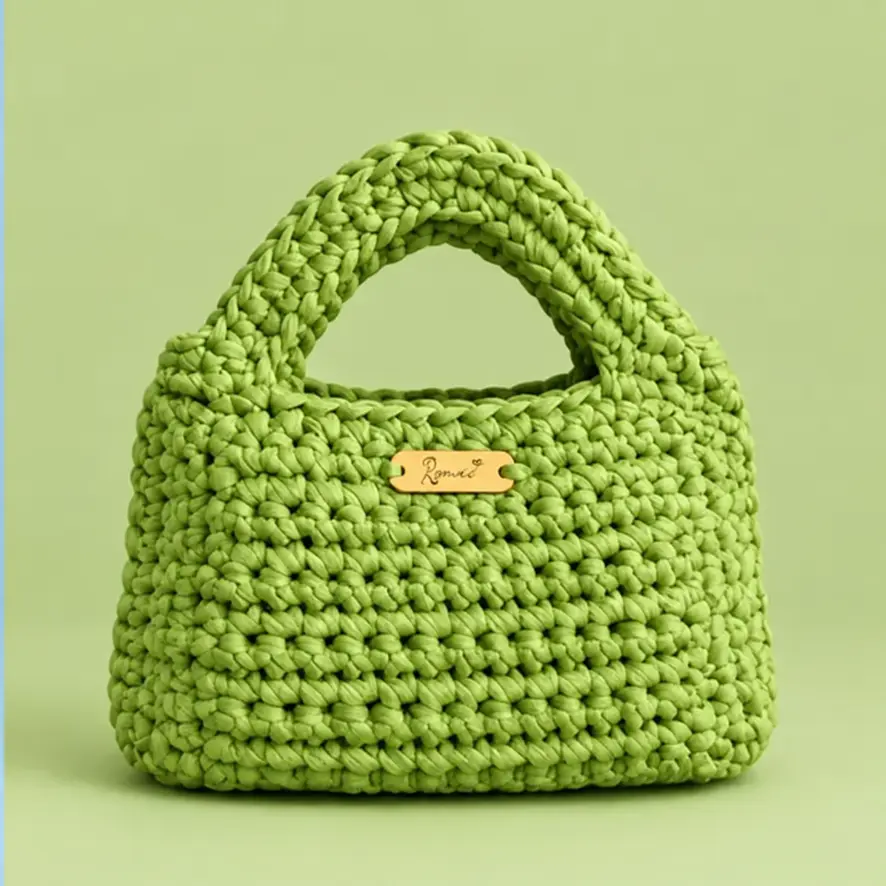
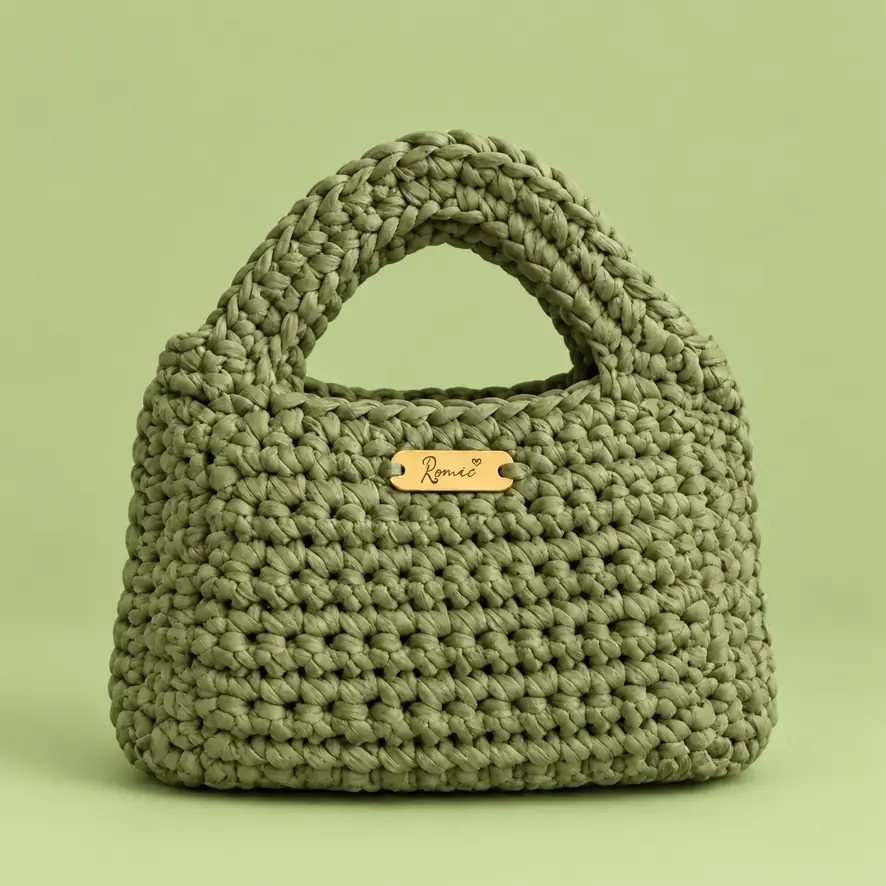
Replace offer strip with launch dialog and refine product visuals

diff --git a/site/app.js b/site/app.js
@@ -25,7 +25,7 @@ const COPY = {
     finderHint:'NEED HELP CHOOSING?', finderOpen:'FIND YOUR BAG', finderClose:'Close bag finder', finderCarry:'HOW DO YOU WANT TO CARRY IT?', finderSize:'WHAT SIZE DO YOU WANT?', finderDetail:'PICK A DETAIL', hand:'In hand', onShoulder:'On shoulder', clutch:'Clutch', small:'Small', medium:'Medium', large:'Large', clean:'Clean', chain:'Chain', pearls:'Pearls', matches:'YOUR MATCHES', yourRomic:'YOUR ROMIC.', noExact:'No exact match in the ready-made collection.', makeYours:'MAKE IT YOURS',
     model:'CHOOSE A MODEL', colour:'CHOOSE A COLOUR', basePrice:'BASE PRICE', bagBody:'BAG BODY', messageRomic:'MESSAGE ROMIC', customLead:'Choose a model. Choose a colour.', customNote:'Base price: one solid colour with the standard handle and hardware. Straps, colour combinations, extra handles and accessories cost extra.', customVisual:'Visualisation for reference. Handmade colour and measurements may vary slightly.',
     copied:'Your message is ready in WhatsApp. Tap Send when you’re ready.', picksCopied:'Your bag is ready in WhatsApp. Tap Send when you’re ready.', picksLabel:'IN YOUR BAG', viewImage:'View', remove:'Remove', openInstagram:'open Romic on Instagram',
-    bag:'My bag', bagTitle:'Your bag', bagEmpty:'Your bag is empty.', keepBrowsing:'KEEP BROWSING', subtotal:'Subtotal', discount:'Launch offer · 20%', total:'Bag total', shipping:'Delivery is ₪35. Added separately.', couponLabel:'Coupon code', couponPlaceholder:'Enter code', applyCoupon:'Apply', couponDone:'Applied', couponApplied:'20% applied to ready-made bags', couponInvalid:'That code doesn’t match. Check it and try again.', couponExpired:'The launch offer has ended.', whatsapp:'CONTINUE TO WHATSAPP', launchOfferTitle:'OFF READY-TO-MADE BAGS', launchOfferDetails:'Enter <bdi>ROMIC2026</bdi> in My bag · Through 16 Oct', launchOfferAction:'SHOP BAGS',
+    bag:'My bag', bagTitle:'Your bag', bagEmpty:'Your bag is empty.', keepBrowsing:'KEEP BROWSING', subtotal:'Subtotal', discount:'Launch offer · 20%', total:'Bag total', shipping:'Delivery is ₪35. Added separately.', couponLabel:'Coupon code', couponPlaceholder:'Enter code', applyCoupon:'Apply', couponDone:'Applied', couponApplied:'20% applied to ready-made bags', couponInvalid:'That code doesn’t match. Check it and try again.', couponExpired:'The launch offer has ended.', whatsapp:'CONTINUE TO WHATSAPP', offerTitle:'A launch offer for your next Romic', offerCodeLabel:'Enter this code in My bag', offerTerms:'20% off ready-made collection bags · Through 16 October 2026. Custom designs and delivery are excluded.', offerAction:'EXPLORE THE COLLECTION', offerClose:'Close offer',
     addConfirmation:'Added to your bag.', removeConfirmation:'Removed from your bag.', openWhatsapp:'Open WhatsApp to message Romic', couponUsed:'Coupon code ROMIC2026 applied.', promoMessage:'Launch offer: 20% off ready-made collection bags with ROMIC2026. Excludes custom designs and delivery. Through 16 October 2026.'
   },
   he: {
@@ -40,7 +40,7 @@ const COPY = {
     finderHint:'לא בטוחה איזה תיק לבחור?', finderOpen:'מצאי את התיק שלך', finderClose:'סגירת שאלון התאמה', finderCarry:'איך תרצי לשאת את התיק?', finderSize:'איזה גודל תרצי?', finderDetail:'איזה גימור את אוהבת?', hand:'ביד', onShoulder:'על הכתף', clutch:'קלאץ׳', small:'קטן', medium:'בינוני', large:'גדול', clean:'נקי', chain:'שרשרת', pearls:'פנינים', matches:'התיקים שמתאימים לך', yourRomic:'YOUR ROMIC.', noExact:'לא מצאנו התאמה מדויקת. אולי תמצאי את התיק שלך בעיצוב האישי.', makeYours:'לעיצוב אישי',
     model:'בחירת דגם', colour:'בחירת צבע', basePrice:'מחיר בסיס', bagBody:'מידות גוף התיק', messageRomic:'שליחת הודעה ל־ROMIC', customLead:'בחרי דגם. בחרי צבע.', customNote:'מחיר הבסיס כולל צבע אחיד, ידית ואבזור סטנדרטיים. רצועות, שילובי צבעים, ידיות נוספות ואביזרים מתומחרים בנפרד.', customVisual:'ההדמיה להמחשה. בעבודת יד ייתכנו הבדלים קטנים בגוון ובמידות.',
     copied:'ההודעה מוכנה בוואטסאפ. כשתרצי, לחצי על שליחה.', picksCopied:'הסל שלך מוכן בוואטסאפ. כשתרצי, לחצי על שליחה.', picksLabel:'בסל שלי', viewImage:'תמונה', remove:'הסרה', openInstagram:'פתיחת Romic באינסטגרם',
-    bag:'הסל שלי', bagTitle:'הבחירות שלך', bagEmpty:'עוד לא הוספת תיק לסל.', keepBrowsing:'חזרה לקולקציה', subtotal:'סכום ביניים', discount:'הטבת השקה · 20%', total:'סך הכול לתיקים', shipping:'משלוח ₪35 מתווסף בנפרד.', couponLabel:'קוד קופון', couponPlaceholder:'הזיני קוד', applyCoupon:'החילי קוד', couponDone:'הקוד הופעל', couponApplied:'20% הנחה על תיקי הקולקציה הקיימים', couponInvalid:'הקוד לא זוהה. בדקי ונסי שוב.', couponExpired:'הטבת ההשקה הסתיימה.', whatsapp:'ממשיכות לוואטסאפ', launchOfferTitle:'הנחה על תיקי הקולקציה', launchOfferDetails:'הזיני <bdi dir="ltr">ROMIC2026</bdi> בסל שלי · עד 16.10', launchOfferAction:'לצפייה בתיקים',
+    bag:'הסל שלי', bagTitle:'הבחירות שלך', bagEmpty:'עוד לא הוספת תיק לסל.', keepBrowsing:'חזרה לקולקציה', subtotal:'סכום ביניים', discount:'הטבת השקה · 20%', total:'סך הכול לתיקים', shipping:'משלוח ₪35 מתווסף בנפרד.', couponLabel:'קוד קופון', couponPlaceholder:'הזיני קוד', applyCoupon:'החילי קוד', couponDone:'הקוד הופעל', couponApplied:'20% הנחה על תיקי הקולקציה הקיימים', couponInvalid:'הקוד לא זוהה. בדקי ונסי שוב.', couponExpired:'הטבת ההשקה הסתיימה.', whatsapp:'ממשיכות לוואטסאפ', offerTitle:'הטבת השקה לתיק הבא שלך', offerCodeLabel:'הזיני את הקוד בסל שלי', offerTerms:'20% הנחה על תיקי הקולקציה המוכנים · בתוקף עד 16.10.2026. לא כולל עיצוב אישי ומשלוח.', offerAction:'לצפייה בקולקציה', offerClose:'סגירת ההטבה',
     addConfirmation:'נוסף לסל שלך.', removeConfirmation:'הוסר מהסל.', openWhatsapp:'פתיחת וואטסאפ ושליחת הודעה ל־Romic', couponUsed:'קוד הקופון ROMIC2026 הופעל.', promoMessage:'הטבת השקה: 20% הנחה על תיקי הקולקציה הקיימים בקוד ROMIC2026. לא כולל עיצוב אישי ומשלוח. בתוקף עד 16.10.2026.'
   }
 };
@@ -99,6 +99,44 @@ const catalogOrder = ['marrakech','rio','ibiza','porto','florence','paris','miam
 
 function formatPrice(price) { return `₪${price}`; }
 function promoIsActive() { const now = Date.now(); return now >= promoStartsAt && now < promoEndsAt; }
+const launchOfferSeenKey = 'romic:launch-offer-seen';
+function showLaunchOfferOnce() {
+  if (!promoIsActive()) return;
+  try { if (localStorage.getItem(launchOfferSeenKey) === '1') return; }
+  catch (_) { try { if (sessionStorage.getItem(launchOfferSeenKey) === '1') return; } catch (_) {} }
+  if (window.__romicLaunchOfferSeen) return;
+  const dialog = document.createElement('dialog');
+  dialog.className = 'launch-dialog';
+  dialog.setAttribute('aria-labelledby', 'launch-offer-title');
+  const featured = ['marrakech','rio','ibiza','porto','florence','paris'];
+  const photos = featured.map(id => {
+    const bag = ROMIC_PRODUCTS.find(item => item.id === id);
+    if (!bag) return '';
+    const alt = isHebrew ? `תיק ${bag.name} מקולקציית Romic` : `${bag.name} bag from the Romic collection`;
+    return `<img src="../assets/cards/600/${id}.webp" alt="${alt}" width="600" height="750" decoding="async">`;
+  }).join('');
+  dialog.innerHTML = `<div class="launch-dialog-layout">
+    <div class="launch-dialog-copy">
+      <button class="launch-dialog-close" type="button" aria-label="${copy.offerClose}" data-offer-close>${icon('close')}</button>
+      <p class="launch-kicker">${isHebrew ? 'הטבת השקה' : 'A LAUNCH OFFER'}</p>
+      <h2 id="launch-offer-title">${copy.offerTitle}</h2>
+      <p class="launch-discount">20%</p>
+      <p class="launch-code-label">${copy.offerCodeLabel}</p>
+      <p class="launch-code"><bdi dir="ltr">ROMIC2026</bdi></p>
+      <p class="launch-terms">${copy.offerTerms}</p>
+      <a class="launch-action" href="./#collection" data-offer-action>${copy.offerAction}</a>
+    </div>
+    <div class="launch-bag-collage" aria-label="${isHebrew ? 'מבחר תיקים מהקולקציה' : 'A selection of Romic bags'}">${photos}</div>
+  </div>`;
+  document.body.append(dialog);
+  try { localStorage.setItem(launchOfferSeenKey, '1'); }
+  catch (_) { try { sessionStorage.setItem(launchOfferSeenKey, '1'); } catch (_) {} }
+  window.__romicLaunchOfferSeen = true;
+  dialog.querySelector('[data-offer-close]').addEventListener('click', () => dialog.close());
+  dialog.querySelector('[data-offer-action]').addEventListener('click', () => dialog.close());
+  dialog.addEventListener('close', () => dialog.remove(), { once:true });
+  dialog.showModal();
+}
 function currentPrice(product) { return product.price; }
 function cartPrice(product, couponApplied) { return couponApplied ? Math.round(product.price * .8) : product.price; }
 function isCouponApplied() { try { return promoIsActive() && sessionStorage.getItem(appliedCouponStorageKey) === promoCode; } catch (_) { return false; } }
@@ -424,9 +462,8 @@ function header() {
   const isDocumentPage = document.body.dataset.page === 'document';
   const otherLanguage = `${isHebrew ? '../en/' : '../he/'}${isProductPage ? `product.html${location.search}` : isDocumentPage ? `${document.body.dataset.doc}.html` : ''}`;
   const navigation = `<a href="${siteRoot}#collection">${copy.collection}</a><a href="${siteRoot}#craft">${copy.craft}</a><a href="${siteRoot}#faq">${copy.faq}</a>`;
-  const promo = ['home','product'].includes(document.body.dataset.page) && promoIsActive() ? `<div class="promo-strip"><a class="promo-message" href="${siteRoot}#collection"><span class="promo-title"><strong>20%</strong> ${copy.launchOfferTitle}</span><span class="promo-details">${copy.launchOfferDetails}</span></a><a class="promo-action" href="${siteRoot}#collection">${copy.launchOfferAction}</a></div>` : '';
   const cartButton = `<button class="bag-link" type="button" data-open-cart aria-label="${copy.bag}">${bagIcon()} <span data-cart-label>${copy.bag}</span><span class="bag-count" data-cart-count>0</span></button>`;
-  return `${promo}<a class="skip-link" href="#main">${copy.skip}</a><header class="site-header">
+  return `<a class="skip-link" href="#main">${copy.skip}</a><header class="site-header">
     <a class="brand" href="${siteRoot}" aria-label="Romic home"><img class="brand-wordmark" src="../assets/romic-wordmark-transparent.png" alt="Romic — Handmade Bags" width="208" height="76"></a>
     <nav class="primary-nav" aria-label="${isHebrew ? 'ניווט ראשי' : 'Primary navigation'}">${navigation}</nav>
     <div class="header-actions"><a class="language-link" href="${otherLanguage}" data-language-link="${isHebrew ? 'en' : 'he'}">${copy.language}</a>${cartButton}${instagramLink(copy.instagram, 'instagram-link')}<button class="menu-toggle" type="button" aria-expanded="false" aria-controls="mobile-menu" aria-label="${copy.menu}" data-menu-toggle>${icon('menu')}</button></div>
@@ -742,7 +779,7 @@ function renderCustomizer() {
   const root = document.querySelector('[data-customizer]');
   if (!root) return;
   const models = [{ id:'clutch', name:'Classic Clutch', he:'קלאץ׳ קלאסיק', price:320, measure:'25 × 10' }, { id:'maldives', name:'Romic Handbag', he:'תיק יד Romic', price:370, measure:'25 × 15' }, { id:'dubai', name:'Romic Handle Clutch', he:'קלאץ׳ Romic עם ידיות', price:400, measure:'25 × 12' }];
-  const colors = [{ id:'black', name:'Black', he:'שחור', hex:'#242124' }, { id:'ivory', name:'Ivory', he:'שמנת', hex:'#eee4d2' }, { id:'sky', name:'Sky', he:'תכלת', hex:'#92cdf2' }, { id:'lime', name:'Lime', he:'ליים', hex:'#9ed64c' }, { id:'berry', name:'Berry', he:'יין', hex:'#8e183c' }, { id:'fuchsia', name:'Fuchsia', he:'פוקסיה', hex:'#ee1772' }, { id:'coral', name:'Coral', he:'קורל', hex:'#f46d48' }, { id:'sand', name:'Sand', he:'חול', hex:'#bd9064' }];
+  const colors = [{ id:'black', name:'Black', he:'שחור', hex:'#242124' }, { id:'ivory', name:'Ivory', he:'שמנת', hex:'#eee4d2' }, { id:'sky', name:'Sky', he:'תכלת', hex:'#92cdf2' }, { id:'lime', name:'Olive', he:'ירוק זית', hex:'#78804f' }, { id:'berry', name:'Berry', he:'יין', hex:'#8e183c' }, { id:'fuchsia', name:'Fuchsia', he:'פוקסיה', hex:'#ee1772' }, { id:'coral', name:'Coral', he:'קורל', hex:'#f46d48' }, { id:'sand', name:'Sand', he:'חול', hex:'#bd9064' }];
   let selectedModel = models.find(model => model.id === root.dataset.selectedModel) || models[0];
   let selectedColor = colors.find(color => color.id === root.dataset.selectedColor) || colors[3];
   const displayModel = model => isHebrew ? model.he : model.name;
@@ -973,10 +1010,12 @@ function renderHome() {
   document.querySelector('[data-open-finder]')?.addEventListener('click', openFinder);
   document.addEventListener('romic:picks-changed', renderSavedPicks);
   scheduleHomeBelowFold();
+  setTimeout(showLaunchOfferOnce, 280);
 }
 
 function renderProduct() {
   renderShell();
+  setTimeout(showLaunchOfferOnce, 280);
   document.querySelectorAll('link[data-romic-canonical],script[data-romic-structured]').forEach(element => element.remove());
   const product = ROMIC_PRODUCTS.find(item => item.id === new URLSearchParams(location.search).get('id'));
   const main = document.querySelector('[data-product]');

diff --git a/site/styles.css b/site/styles.css
@@ -322,14 +322,36 @@ html[lang=en] .customizer-head{direction:ltr;text-align:left}
 .product-info{padding:clamp(24px,3vw,44px)}
 @media(max-width:600px){.product-info{padding:22px 18px}}
 
-/* Cart, promotion and ordering */
-.promo-strip{position:relative;z-index:101;display:flex;align-items:center;justify-content:space-between;gap:24px;min-height:70px;padding:10px var(--gutter);background:var(--pink);color:var(--ink);line-height:1.25}
-.promo-message{display:grid;gap:3px;min-width:0;text-decoration:none;text-align:start}
-.promo-title{font-size:clamp(.94rem,1.3vw,1.1rem);font-weight:850;letter-spacing:.01em}
-.promo-title strong{font-size:1.28em;font-variant-numeric:tabular-nums}
-.promo-details{font-size:.78rem;font-weight:650}
-.promo-action{display:inline-flex;align-items:center;justify-content:center;min-height:44px;padding:0 14px;border:1px solid currentColor;text-decoration:none;font-size:.73rem;font-weight:850;letter-spacing:.035em;white-space:nowrap}
-.promo-action:hover{background:var(--ink);color:#fff}
+/* Cart, launch offer and ordering */
+
+.launch-dialog{position:fixed;inset:0;margin:auto;width:min(900px,calc(100vw - 36px));max-width:none;max-height:min(90dvh,820px);padding:0;border:1px solid rgba(18,17,18,.16);background:var(--paper);color:var(--ink);overflow:auto;box-shadow:0 22px 80px rgba(18,17,18,.28)}
+.launch-dialog::backdrop{background:rgba(18,17,18,.58)}
+.launch-dialog-layout{display:grid;grid-template-columns:minmax(260px,.95fr) minmax(320px,1.05fr);min-height:450px}
+.launch-dialog-copy{position:relative;display:flex;flex-direction:column;align-items:flex-start;justify-content:center;padding:clamp(28px,5vw,58px);text-align:start}
+.launch-dialog-close{position:absolute;inset-block-start:14px;inset-inline-end:14px;display:grid;width:44px;height:44px;place-items:center;border:1px solid rgba(18,17,18,.35);background:transparent;color:inherit;cursor:pointer}
+.launch-dialog-close .icon{width:19px;height:19px}
+.launch-kicker{margin:0 0 16px;font-size:.74rem;font-weight:850;letter-spacing:.12em;text-transform:uppercase}
+.launch-dialog-copy h2{max-width:14ch;margin:0;font-size:clamp(1.45rem,3vw,2.45rem);line-height:1.05;letter-spacing:-.035em}
+.launch-discount{margin:16px 0 12px;font-size:clamp(3.4rem,8vw,5rem);font-weight:900;line-height:.9;letter-spacing:-.08em}
+.launch-code-label{margin:6px 0;font-size:.84rem;font-weight:700}
+.launch-code{display:inline-block;margin:2px 0 12px;padding:9px 14px;border:1px solid currentColor;font-size:1.05rem;font-weight:850;letter-spacing:.07em}
+.launch-terms{max-width:34ch;margin:0 0 18px;color:#514b4d;font-size:.78rem;line-height:1.5}
+.launch-action{display:inline-flex;min-height:48px;align-items:center;justify-content:center;padding:0 18px;border:1px solid var(--ink);background:var(--ink);color:white;font-size:.76rem;font-weight:850;letter-spacing:.03em;text-decoration:none}
+.launch-action:hover{background:transparent;color:var(--ink)}
+.launch-bag-collage{display:grid;grid-template-columns:repeat(3,minmax(0,1fr));grid-template-rows:repeat(2,minmax(0,1fr));gap:5px;min-height:100%;background:#e8dfd8}
+.launch-bag-collage img{display:block;width:100%;height:100%;min-height:0;aspect-ratio:4/5;object-fit:cover}
+@media(max-width:650px){
+ .launch-dialog{width:min(480px,calc(100vw - 24px));max-height:calc(100dvh - 24px)}
+ .launch-dialog-layout{grid-template-columns:1fr;grid-template-rows:auto auto}
+ .launch-dialog-copy{padding:26px 24px 22px}
+ .launch-dialog-copy h2{max-width:18ch;font-size:clamp(1.35rem,6vw,1.8rem)}
+ .launch-discount{margin:12px 0 8px;font-size:3.5rem}
+ .launch-kicker{margin-bottom:9px}
+ .launch-terms{margin-bottom:12px}
+ .launch-bag-collage{grid-template-columns:repeat(3,minmax(0,1fr));grid-template-rows:repeat(2,1fr);gap:3px;min-height:0}
+ .launch-bag-collage img{aspect-ratio:4/3}
+}
+@media(prefers-reduced-motion:reduce){.launch-action{transition:none}}
 .bag-link{display:inline-flex;align-items:center;justify-content:center;gap:7px;min-height:42px;padding:0 11px;border:1px solid var(--ink);border-radius:var(--control-radius);background:transparent;color:var(--ink);font:inherit;font-size:.74rem;font-weight:780;cursor:pointer}
 .bag-link .icon{width:18px;height:18px}.bag-count{display:inline-grid;min-width:19px;height:19px;place-items:center;padding:0 4px;border-radius:50%;background:var(--ink);color:white;font-size:.62rem;font-variant-numeric:tabular-nums}
 .bag-link:not(.has-items) .bag-count{background:transparent;color:var(--ink);border:1px solid var(--line)}
@@ -367,7 +389,6 @@ html[dir=rtl] .cart-coupon span{text-align:start}
 html[dir=rtl] .cart-totals dd{text-align:left}
 .site-toast{border-radius:var(--control-radius)}
 @media(max-width:700px){
-  .promo-strip{gap:10px;min-height:72px;padding:9px 14px}.promo-message{gap:4px}.promo-title{font-size:.94rem;line-height:1.15}.promo-title strong{font-size:1.3em}.promo-details{font-size:.72rem;line-height:1.25}.promo-action{min-height:44px;padding:0 9px;font-size:.66rem;letter-spacing:0}
   .bag-link{width:42px;min-width:42px;padding:0;gap:3px}.bag-link [data-cart-label]{display:none}.bag-count{min-width:17px;height:17px}
   .cart-dialog{inset:auto 0 0;margin:0;width:100%;max-width:none;max-height:88dvh;border-radius:12px 12px 0 0;border-bottom:0;padding-bottom:env(safe-area-inset-bottom)}
   .cart-panel{padding:20px 18px calc(20px + env(safe-area-inset-bottom))}.cart-line{grid-template-columns:62px minmax(0,1fr) auto;gap:10px}.cart-thumb{width:62px}

diff --git a/site/data.js b/site/data.js
@@ -16,7 +16,7 @@ const ROMIC_PRODUCTS=[
 {id:'mykonos',name:'Mykonos',price:350,size:'M',width:25,height:12,image:'mykonos.webp',gallery:['mykonos.webp','mykonos-worn.webp','mykonos-detail.webp'],types:['clutch'],he:'קלאץ׳ לבן אלגנטי בגימור נקי.',en:'An elegant white clutch with a clean finish.'},
 {id:'milan',name:'Milano',price:370,size:'L',width:25,height:15,image:'milan.webp',gallery:['milan.webp','milan-styled.webp'],types:['shoulder'],he:'תיק כתף לבן עם שרשרת בגוון זהב ורצועה סרוגה.',en:'A white shoulder bag with a gold-tone chain and crochet strap.'},
 {id:'venice',name:'Venice',price:400,size:'M',width:25,height:13,image:'venice.webp',gallery:['venice.webp','venice-worn.webp'],types:['shoulder'],he:'תיק כתף בורדו עם חוליות בגוון זהב.',en:'A burgundy shoulder bag finished with gold-tone links.'},
-{id:'dubai',name:'Dubai',price:400,size:'M',width:25,height:12,image:'dubai-corrected.webp',gallery:['dubai-corrected.webp','dubai-real.webp','dubai-worn.webp','dubai-stairs.webp'],types:['top-handle','shoulder'],detail:'chain',he:'תיק שחור בגזרה יציבה, עם ידיות ושרשרת בגוון זהב.',en:'A structured black handbag with handles and a gold-tone chain.'},
+{id:'dubai',name:'Dubai',price:400,size:'M',width:25,height:12,image:'dubai-corrected.webp',gallery:['dubai-corrected.webp','dubai-real.webp','dubai-stairs.webp'],types:['top-handle','shoulder'],detail:'chain',he:'תיק שחור בגזרה יציבה, עם ידיות ושרשרת בגוון זהב.',en:'A structured black handbag with handles and a gold-tone chain.'},
 {id:'florence',name:'Florence',price:350,size:'M',width:25,height:10,image:'florence.webp',gallery:['florence.webp','florence-held.webp'],types:['clutch'],detail:'clean',he:'קלאץ׳ בגוון חום מבריק, עשוי מחוט פוליאסטר איכותי.',en:'A glossy brown clutch, handcrafted from premium polyester yarn.'},
 {id:'marrakech',name:'Marrakech',price:400,size:'S',width:20,height:12,image:'marrakech.webp',gallery:['marrakech.webp','marrakech-held.webp','marrakech-detail.webp'],types:['clutch'],detail:'clean',he:'קלאץ׳ קטן בגוון זהב, לנשיאה ביד.',en:'A small gold-tone clutch, made to carry by hand.'}
 ];
